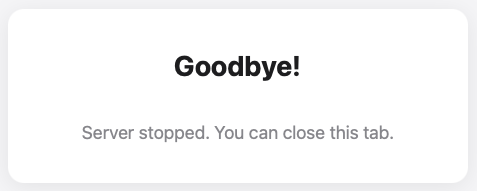
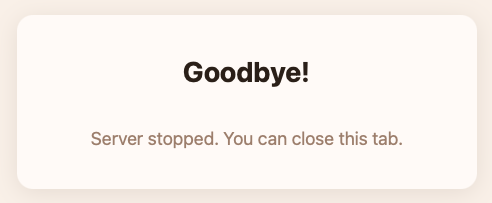
Design modifications

Changed region(s): [[0.0, 0.0262, 0.9979, 0.9686], [0.1761, 0.6283, 0.8218, 0.733], [0.3522, 0.288, 0.6457, 0.445]]

diff --git a/claude_wakeup_gui.py b/claude_wakeup_gui.py
@@ -197,24 +197,24 @@ HTML_PAGE = """<!DOCTYPE html>
   * { margin:0; padding:0; box-sizing:border-box; }
   body {
     font-family: -apple-system, BlinkMacSystemFont, 'Helvetica Neue', sans-serif;
-    background: #f5f5f7; color: #1d1d1f;
+    background: #FAF0E8; color: #2B1F17;
     display:flex; justify-content:center; align-items:center;
     min-height:100vh;
   }
   .card {
-    background:white; border-radius:16px;
-    box-shadow:0 4px 24px rgba(0,0,0,0.08);
+    background:#FFFAF7; border-radius:16px;
+    box-shadow:0 4px 24px rgba(60,30,10,0.10);
     padding:40px; max-width:460px; width:100%;
     text-align:center;
   }
   h1 { font-size:28px; margin-bottom:6px; }
-  .sub { color:#86868b; font-size:14px; margin-bottom:20px; }
+  .sub { color:#9E7D6A; font-size:14px; margin-bottom:20px; }
   .box {
-    background:#f5f5f7; border-radius:10px;
+    background:#F4E4D8; border-radius:10px;
     padding:16px; text-align:left; margin-bottom:24px;
   }
   .box h3 { font-size:13px; margin-bottom:6px; }
-  .box p { font-size:12px; color:#6e6e73; line-height:1.5; }
+  .box p { font-size:12px; color:#8A6050; line-height:1.5; }
   .label { font-size:16px; font-weight:600; margin-bottom:10px; }
   .row {
     display:flex; justify-content:center;
@@ -222,36 +222,36 @@ HTML_PAGE = """<!DOCTYPE html>
   }
   select {
     font-size:22px; padding:8px 12px; border-radius:8px;
-    border:1px solid #d2d2d7; background:white;
+    border:1px solid #D4B099; background:#FFFAF7;
     text-align:center; width:85px;
   }
-  .u { font-size:16px; color:#86868b; }
-  .hint { font-size:11px; color:#aeaeb2; margin-bottom:20px; }
+  .u { font-size:16px; color:#9E7D6A; }
+  .hint { font-size:11px; color:#C4A090; margin-bottom:20px; }
   .btn {
     display:inline-block; padding:12px 28px;
     border-radius:10px; border:none; cursor:pointer;
     font-size:15px; font-weight:600; margin:4px;
   }
-  .p { background:#0071e3; color:white; }
-  .p:hover { background:#0077ED; }
-  .s { background:#e8e8ed; color:#1d1d1f; }
-  .s:hover { background:#d2d2d7; }
+  .p { background:#C97A58; color:white; }
+  .p:hover { background:#B56848; }
+  .s { background:#EDD9CE; color:#2B1F17; }
+  .s:hover { background:#D9C4B6; }
   .q { background:#ff3b30; color:white; }
   .q:hover { background:#e0332b; }
-  .cd { font-size:38px; font-weight:700; margin:16px 0; }
-  .sm { font-size:14px; color:#86868b; margin-bottom:10px; }
+  .cd { font-size:38px; font-weight:700; margin:16px 0; color:#C97A58; }
+  .sm { font-size:14px; color:#9E7D6A; margin-bottom:10px; }
   .st { font-size:28px; font-weight:700; color:#34c759; }
   .et { font-size:28px; font-weight:700; color:#ff3b30; }
   .rb {
-    background:#f5f5f7; border-radius:10px;
+    background:#F4E4D8; border-radius:10px;
     padding:14px; text-align:left; margin:14px 0;
     font-size:12px; line-height:1.6;
     max-height:150px; overflow-y:auto; word-wrap:break-word;
   }
-  .ti { font-size:14px; font-weight:600; color:#34c759; margin:14px 0; }
-  .sep { height:1px; background:#e8e8ed; margin:18px 0; }
+  .ti { font-size:14px; font-weight:600; color:#C97A58; margin:14px 0; }
+  .sep { height:1px; background:#EDD9CE; margin:18px 0; }
   .hidden { display:none; }
-  .bye { font-size:18px; color:#86868b; margin-top:40px; }
+  .bye { font-size:18px; color:#9E7D6A; margin-top:40px; }
   .info { font-size:11px; margin-top:16px; min-height:16px; }
   .info-ok { color:#34c759; }
   .info-warn { color:#ff9500; font-weight:600; }
